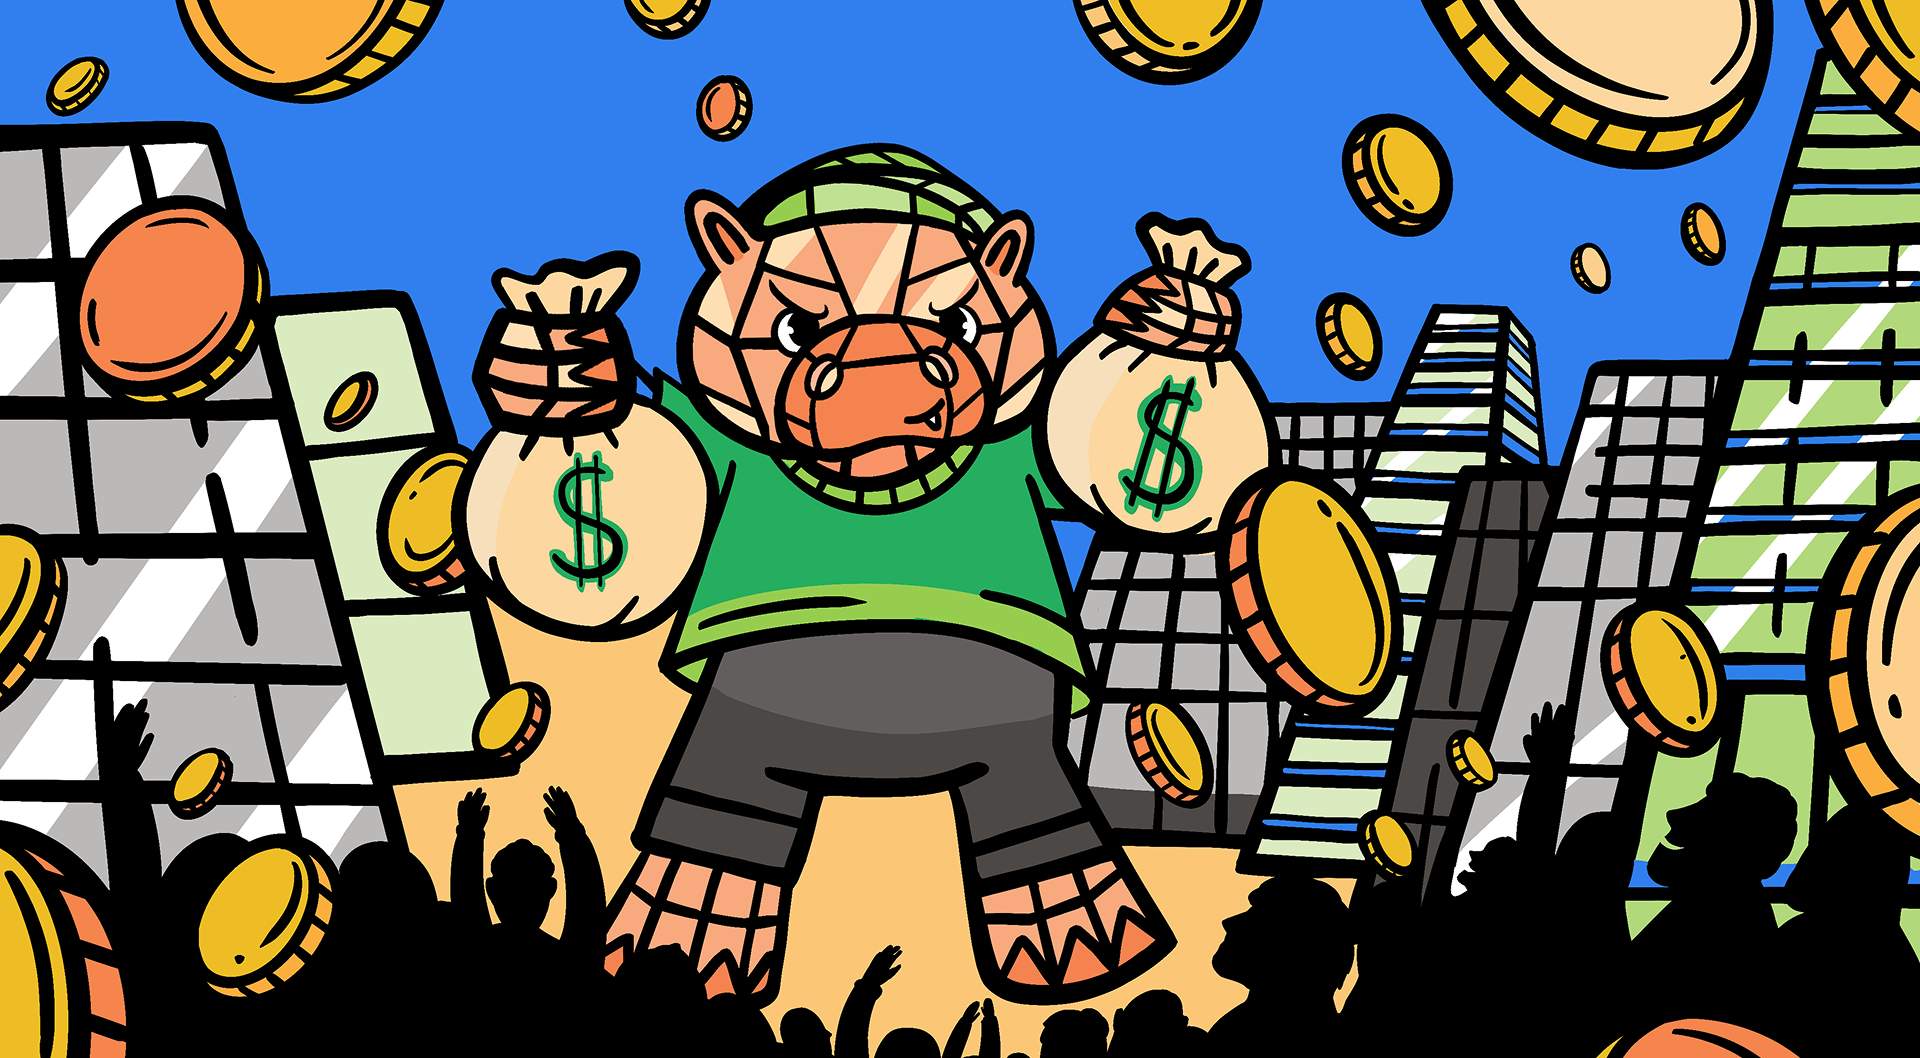
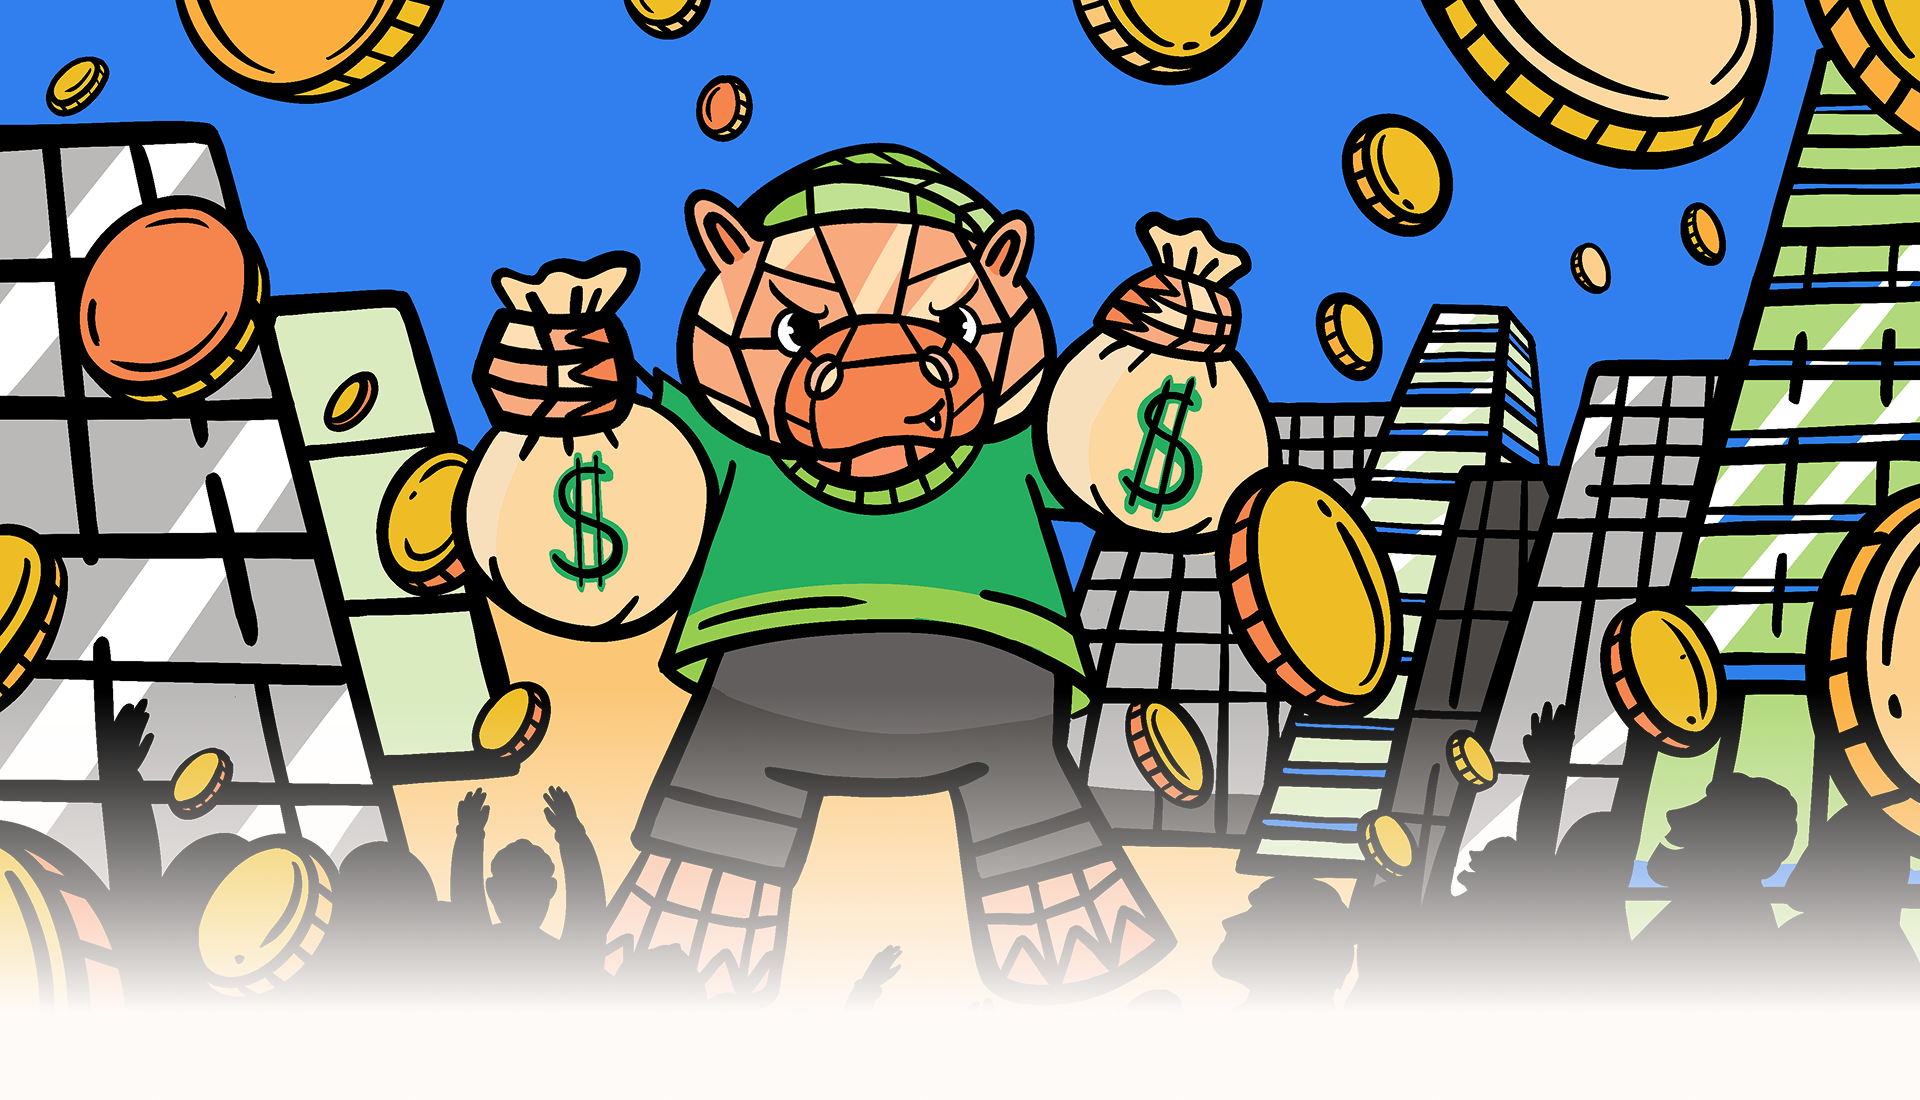
refactor SectionImg, PartnerShip, and Benefits components for improved layout and styling

diff --git a/src/components/app/intersection.tsx b/src/components/app/intersection.tsx
@@ -1,68 +1,56 @@
 export function Intersection() {
-  return (
-    <div className="h-auto bg-brand-white-200 pt-16 pb-20">
-      <div className="container">
-        <h2 className="text-brand-black-100 font-matter ~text-2xl/4xl font-bold text-center max-w-lg mx-auto">
-          At the Intersection of
-          <span className="text-brand-orange-200"> AI</span> Data and
-          <span className="text-brand-green-100"> Decentralization</span>
-        </h2>
-        <div className="grid grid-cols-[1fr_2fr_1fr] gap-10 mt-16 max-lg:grid-cols-2 max-md:grid-cols-1">
-          <div className="flex flex-col justify-between gap-5">
-            <div className="flex flex-col gap-3 max-w-sm max-md:max-w-full">
-              <img src="/img/growth.png" alt="#" className="size-20" />
-              <h4 className="text-brand-black-100 font-matter tracking-wide font-semibold ~text-base/xl">
-                Explosive Market Growth
-              </h4>
-              <p className="text-brand-black-200 font-matter font-regular ~text-sm/lg">
-                The AI data labeling market is projected to reach $27B, with AI
-                companies spending billions annually on data—only a fraction of
-                which is currently efficient.
-              </p>
-            </div>
+	return (
+		<div className='h-auto bg-brand-white-200 pt-16 pb-20'>
+			<div className='container'>
+				<h2 className='text-brand-black-100 font-matter ~text-2xl/4xl font-bold text-center max-w-lg mx-auto'>
+					At the Intersection of
+					<span className='text-brand-orange-200'> AI</span> Data and
+					<span className='text-brand-green-100'> Decentralization</span>
+				</h2>
+				<div className='grid grid-cols-[1fr_2fr_1fr] gap-10 mt-16 max-lg:grid-cols-2 max-md:grid-cols-1'>
+					<div className='flex flex-col justify-between gap-5'>
+						<div className='flex flex-col gap-3 max-w-sm max-md:max-w-full'>
+							<img src='/img/growth.png' alt='#' className='md:size-20 size-12' />
+							<h4 className='text-brand-black-100 font-matter tracking-wide font-semibold ~text-base/xl'>Explosive Market Growth</h4>
+							<p className='text-brand-black-200 font-matter font-regular ~text-sm/lg'>
+								The AI data labeling market is projected to reach $27B, with AI companies spending billions annually on data—only a fraction of which is
+								currently efficient.
+							</p>
+						</div>
 
-            <div className="flex flex-col gap-3 max-w-sm ax-md:max-w-full">
-              <img src="/img/int-mobile.png" alt="#" className="size-20" />
-              <h4 className="text-brand-black-100 font-matter tracking-wide font-semibold ~text-base/xl">
-                Mobile-First Advantage
-              </h4>
-              <p className="text-brand-black-200 font-matter font-regular ~text-sm/lg">
-                With 95% of emerging market users being mobile-only, traditional
-                desktop-based workflows are no longer sufficient.
-              </p>
-            </div>
-          </div>
+						<div className='flex flex-col gap-3 max-w-sm ax-md:max-w-full'>
+							<img src='/img/int-mobile.png' alt='#' className='md:size-20 size-12' />
+							<h4 className='text-brand-black-100 font-matter tracking-wide font-semibold ~text-base/xl'>Mobile-First Advantage</h4>
+							<p className='text-brand-black-200 font-matter font-regular ~text-sm/lg'>
+								With 95% of emerging market users being mobile-only, traditional desktop-based workflows are no longer sufficient.
+							</p>
+						</div>
+					</div>
 
-          <div className="flex items-center justify-center max-w-2xl max-md:max-w-md">
-            <img src="img/intersection.png" alt="#" className="w-full" />
-          </div>
+					<div className='flex items-center justify-center max-w-2xl max-md:max-w-md'>
+						<img src='img/intersection.png' alt='#' className='w-full' />
+					</div>
 
-          <div className="flex flex-col gap-5 items-end justify-between max-lg:items-start">
-            <div className="flex flex-col gap-3 max-w-sm ax-md:max-w-full">
-              <img src="/img/payout.png" alt="" className="size-20" />
-              <h4 className="text-brand-black-100 font-matter tracking-wide font-semibold ~text-base/xl">
-                Instant Payouts & Lower Costs
-              </h4>
-              <p className="text-brand-black-200 font-matter font-regular ~text-sm/lg">
-                Our model uses stable coin payments that settle in minutes,
-                drastically reducing transaction fees and delays compared to
-                traditional gig platforms.
-              </p>
-            </div>
+					<div className='flex flex-col gap-5 items-end justify-between max-lg:items-start'>
+						<div className='flex flex-col gap-3 max-w-sm ax-md:max-w-full'>
+							<img src='/img/payout.png' alt='' className='md:size-20 size-12' />
+							<h4 className='text-brand-black-100 font-matter tracking-wide font-semibold ~text-base/xl'>Instant Payouts & Lower Costs</h4>
+							<p className='text-brand-black-200 font-matter font-regular ~text-sm/lg'>
+								Our model uses stable coin payments that settle in minutes, drastically reducing transaction fees and delays compared to traditional gig
+								platforms.
+							</p>
+						</div>
 
-            <div className="flex flex-col gap-3 max-w-sm ax-md:max-w-full">
-              <img src="/img/int-discuss.png" alt="#" className="size-20" />
-              <h4 className="text-brand-black-100 font-matter tracking-wide font-semibold ~text-base/xl">
-                Strategic Distribution
-              </h4>
-              <p className="text-brand-black-200 font-matter font-regular ~text-sm/lg">
-                OEM partnerships provide pre-installation on millions of
-                devices, ensuring a zero-CAC, rapidly scalable user base.
-              </p>
-            </div>
-          </div>
-        </div>
-      </div>
-    </div>
-  );
+						<div className='flex flex-col gap-3 max-w-sm ax-md:max-w-full'>
+							<img src='/img/int-discuss.png' alt='#' className='md:size-20 size-12' />
+							<h4 className='text-brand-black-100 font-matter tracking-wide font-semibold ~text-base/xl'>Strategic Distribution</h4>
+							<p className='text-brand-black-200 font-matter font-regular ~text-sm/lg'>
+								OEM partnerships provide pre-installation on millions of devices, ensuring a zero-CAC, rapidly scalable user base.
+							</p>
+						</div>
+					</div>
+				</div>
+			</div>
+		</div>
+	);
 }

diff --git a/src/components/app/benefits.tsx b/src/components/app/benefits.tsx
@@ -1,45 +1,41 @@
 export const partner = [
-  {
-    img: "img/benefit-1.png",
-    head: "For Developers",
-    para: "Access our open-source codebase on GitHub. Utilize detailed technical documentation and our SDK to build extensions that tap into a global, mobile-first audience.",
-  },
+	{
+		img: "img/benefit-1.png",
+		head: "For Developers",
+		para: "Access our open-source codebase on GitHub. Utilize detailed technical documentation and our SDK to build extensions that tap into a global, mobile-first audience.",
+	},
 
-  {
-    img: "img/benefit-2.png",
-    head: "For Partners",
-    para: "Leverage our OEM partnerships that pre-install WootzApp on millions of devices—delivering zero user acquisition cost and instant global reach. Our platform is already live with five pilot AI partners deploying data workflows.",
-  },
-  {
-    img: "img/benefit-3.png",
-    head: "Distribution & Scale",
-    para: "With an average of 5.2 hours of daily browser use and plans to reach 15M+ devices, our system offers unprecedented scale and cost efficiencies (as low as $0.10–$0.30 per label).",
-  },
+	{
+		img: "img/benefit-2.png",
+		head: "For Partners",
+		para: "Leverage our OEM partnerships that pre-install WootzApp on millions of devices—delivering zero user acquisition cost and instant global reach. Our platform is already live with five pilot AI partners deploying data workflows.",
+	},
+	{
+		img: "img/benefit-3.png",
+		head: "Distribution & Scale",
+		para: "With an average of 5.2 hours of daily browser use and plans to reach 15M+ devices, our system offers unprecedented scale and cost efficiencies (as low as $0.10–$0.30 per label).",
+	},
 ];
 
 export function Benefits() {
-  return (
-    <div className="pt-16 container text-brand-white-600 pb-24">
-      <h2 className="text-brand-black-100 font-matter ~text-2xl/4xl font-bold text-center max-w-4xl mx-auto leading-normal">
-        Developer & Partner
-        <span className="text-brand-orange-200"> Benefits</span>
-      </h2>
+	return (
+		<div className='pt-16 container   text-brand-white-600 pb-24'>
+			<h2 className='text-brand-black-100 font-matter ~text-2xl/4xl font-bold text-center max-w-4xl mx-auto leading-normal'>
+				Developer & Partner
+				<span className='text-brand-orange-200'> Benefits</span>
+			</h2>
 
-      <div className="grid grid-cols-3 gap-7 max-md:gap-10 mt-16 max-md:mt-5 justify-center max-lg:grid-cols-2 max-md:grid-cols-1 max-md:w-full">
-        {partner.map((e) => {
-          return (
-            <div className="text-center flex flex-col gap-4 items-center max-md:gap-3">
-              <img src={e.img} alt="#" className="max-w-3xl" />
-              <h4 className="text-brand-black-100 font-matter ~text-xl/3xl font-bold leading-normal tracking-wide">
-                {e.head}
-              </h4>
-              <p className="text-brand-black-200 font-matter font-light ~text-sm/lg">
-                {e.para}
-              </p>
-            </div>
-          );
-        })}
-      </div>
-    </div>
-  );
+			<div className='grid grid-cols-3 gap-7 max-md:gap-10 mt-16 max-md:mt-5 justify-center max-lg:grid-cols-2 max-md:grid-cols-1 max-md:w-full'>
+				{partner.map(e => {
+					return (
+						<div className='text-center flex flex-col gap-4 items-center max-md:gap-3'>
+							<img src={e.img} alt='#' className='max-w-3xl' />
+							<h4 className='text-brand-black-100 font-matter ~text-xl/3xl font-bold leading-normal tracking-wide'>{e.head}</h4>
+							<p className='text-brand-black-200 font-matter font-light ~text-sm/lg'>{e.para}</p>
+						</div>
+					);
+				})}
+			</div>
+		</div>
+	);
 }

diff --git a/src/components/app/partnership.tsx b/src/components/app/partnership.tsx
@@ -14,8 +14,8 @@ const data = [
 
 export function PartnerShip() {
 	return (
-		<div className='min-h-screen pt-24 relative pb-16'>
-			<img src='img/partnership-shadow.png' alt='#' className='absolute -top-10 -right-44' />
+		<div className='min-h-screen  relative  md:pt-24 pb-16 overflow-hidden'>
+			<img src='img/partnership-shadow.png' alt='#' className='absolute -top-10 -right-16 md:-right-44 w-40' />
 
 			<div className='container'>
 				<div className='flex flex-col gap-4 items-center text-center'>
@@ -45,19 +45,19 @@ export function PartnerShip() {
 					</div>
 
 					<div className='flex items-center mt-14 max-md:mt-5 justify-center gap-16 max-lg:gap-10 max-md:flex-col-reverse max-md:gap-5'>
-						<div className='max-w-2xl flex-1 max-md:max-w-md'>
+						<div className='max-w-2xl flex-1  '>
 							<img src='img/partnership.png' alt='#' className='w-full' />
 						</div>
 
-						<div className='bg-[#EEEFE9] rounded-md max-w-3xl flex flex-1 w-full max-md:max-w-xl h-full p-5 gap-5'>
+						<div className='bg-[#EEEFE9] rounded-md  flex flex-1 w-full h-full p-5 gap-2 md:gap-5'>
 							<div>
-								<img src='img/code.png' height={100} width={100} alt='#' className=' max-md:hidden' />
+								<img src='img/code.png' alt='#' className=' w-16   md:w-24 ' />
 							</div>
 							<div className='w-full flex flex-col gap-3'>
-								<p className='text-2xl font-semibold'>Technical Superiority – Code Comparison</p>
+								<p className='md:text-2xl font-semibold'>Technical Superiority – Code Comparison</p>
 
 								<div className='bg-[#283911] rounded-lg max-h-[796px] overflow-auto'>
-									<pre className='bg-transparent text-white p-4 whitespace-pre-wrap text-sm'>
+									<pre className='bg-transparent text-white p-4 whitespace-pre-wrap  text-xs md:text-sm'>
 										{`// Traditional Platforms (e.g., Scale AI, LabelBox)
 class Traditional Platform {
   async deploy Task(config) {

diff --git a/src/pages/index.tsx b/src/pages/index.tsx
@@ -11,17 +11,28 @@ import {SectionImg} from "../components/app/section-img";
 
 export default function Home() {
 	return (
-		<div className='min-h-screen bg-brand-home_bg '>
-			<Header />
-			<Hero />
+		<div className='min-h-screen bg-brand-[#FEFAF8] '>
+			<div className='bg-brand-home_bg'>
+				<Header />
+				<Hero />
+			</div>
 			<Browsing />
 			<Performance />
 			<SectionImg />
-			<PartnerShip />
-			{/* <Benefits /> */}
-			{/* <Intersection /> */}
-			{/* <Experience /> */}
-			{/* <Footer /> */}
+			<div className='bg-brand-home_bg'>
+				<PartnerShip />
+			</div>
+			<div className='bg-[#FEEDE5]'>
+				<Benefits />
+			</div>
+			<div
+				// linear gradient to bottom
+				className='bg-gradient-to-b from-[#FEEDE5] to-[#FEFAF8]'
+			>
+				<Intersection />
+				<Experience />
+				<Footer />
+			</div>
 		</div>
 	);
 }

diff --git a/src/components/app/section-img.tsx b/src/components/app/section-img.tsx
@@ -1,17 +1,9 @@
 export function SectionImg() {
-  return (
-    <div className="h-screen section-img relative">
-      <img
-        src="img/up-shadow.png"
-        alt="#"
-        className="absolute top-0 right-0 left-0 w-full"
-      />
+	return (
+		<div className='h-[430px] md:h-screen section-img relative'>
+			<img src='img/up-shadow.png' alt='#' className='absolute top-0 right-0 left-0 w-full' />
 
-      <img
-        src="img/down.png"
-        alt="#"
-        className="absolute bottom-0 right-0 left-0 w-full opacity-70"
-      />
-    </div>
-  );
+			<img src='img/down.png' alt='#' className='absolute bottom-0 right-0 left-0 w-full opacity-70' />
+		</div>
+	);
 }
